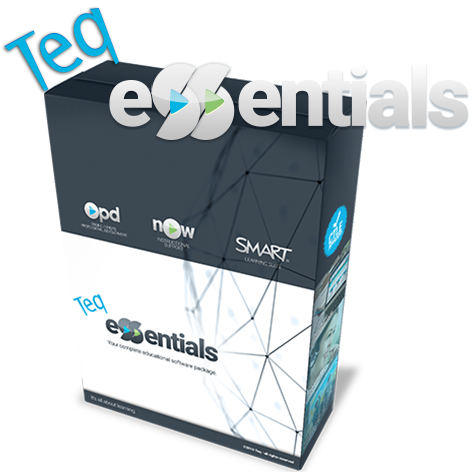
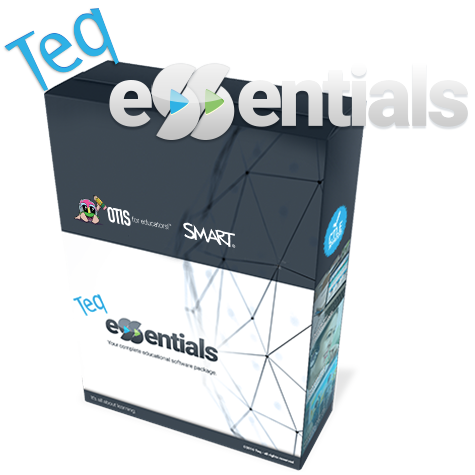
Essentials Product Box update
brand with OTIS for educator's platform

diff --git a/templates-pages/product-page-accordion-top.php b/templates-pages/product-page-accordion-top.php
@@ -89,7 +89,7 @@
           <div class="container padding-top padding-bottom">
             <div class="col-md-6 nopadding">
               <h1 class="white display-1">Combine.</h1>
-              <h3 class="white">Combine the learning power of <?php the_title( '<strong>', '</strong>' ); ?> with <a class="white bold" href="<?php echo site_url(); ?>/pd-platforms/online-pd"/>Online</a> and <a class="white bold" href="<?php echo site_url(); ?>/pd-platforms/onsite-pd">Onsite PD</a> and an unparalleled level of Instructional Support for your Essential Learning Package.</h3><a class="white" href="http://onlinepd.teq.com">onlinepd.teq.com</a>
+              <h3 class="white">Combine the learning power of <a class="white bold" href="<?php echo site_url(); ?>/pd-platforms/otis"/>OTIS for educators</a> and <a class="white bold" href="<?php echo site_url(); ?>/pd-platforms/onsite-pd">Onsite PD</a> with Teq Essentials, an exclusive package with unparalleled learning content and instructional support.</h3><a class="white" href="https://otis.teq.com/">otis.teq.com</a>              
               <center><a href="<?php echo site_url(); ?>/pd-platforms/teq-essentials/"><button class="light">Find out more</button></a></center>
             </div>
             <div class="col-md-6 nopadding flex-md-middle">

diff --git a/templates-pages/product-page-slider-top.php b/templates-pages/product-page-slider-top.php
@@ -109,7 +109,7 @@
           <div class="container padding-top padding-bottom">
             <div class="col-md-6 nopadding">
               <h1 class="white display-1">Combine.</h1>
-              <h3 class="white">Combine the learning power of <?php the_title( '<strong>', '</strong>' ); ?> with <a class="white bold" href="<?php echo site_url(); ?>/pd-platforms/online-pd"/>Online</a> and <a class="white bold" href="<?php echo site_url(); ?>/pd-platforms/onsite-pd">Onsite PD</a> and an unparalleled level of Instructional Support for your Essential Learning Package.</h3><a class="white" href="http://onlinepd.teq.com">onlinepd.teq.com</a>
+              <h3 class="white">Combine the learning power of <a class="white bold" href="<?php echo site_url(); ?>/pd-platforms/otis"/>OTIS for educators</a> and <a class="white bold" href="<?php echo site_url(); ?>/pd-platforms/onsite-pd">Onsite PD</a> with Teq Essentials, an exclusive package with unparalleled learning content and instructional support.</h3><a class="white" href="https://otis.teq.com/">otis.teq.com</a>
               <center><a href="<?php echo site_url(); ?>/pd-platforms/teq-essentials/"><button class="light">Find out more</button></a></center>
             </div>
             <div class="col-md-6 nopadding flex-md-middle">

diff --git a/templates-pages/product-page-form-open-new.php b/templates-pages/product-page-form-open-new.php
@@ -62,7 +62,7 @@
           <div class="container padding-top padding-bottom">
             <div class="col-md-6 nopadding">
               <h1 class="white display-1">Combine.</h1>
-              <h3 class="white">Combine the learning power of <?php the_title( '<strong>', '</strong>' ); ?> with <a class="white bold" href="<?php echo site_url(); ?>/pd-platforms/online-pd"/>Online</a> and <a class="white bold" href="<?php echo site_url(); ?>/pd-platforms/onsite-pd">Onsite PD</a> and an unparalleled level of Instructional Support for your Essential Learning Package.</h3><a class="white" href="http://onlinepd.teq.com">onlinepd.teq.com</a>
+              <h3 class="white">Combine the learning power of <a class="white bold" href="<?php echo site_url(); ?>/pd-platforms/otis"/>OTIS for educators</a> and <a class="white bold" href="<?php echo site_url(); ?>/pd-platforms/onsite-pd">Onsite PD</a> with Teq Essentials, an exclusive package with unparalleled learning content and instructional support.</h3><a class="white" href="https://otis.teq.com/">otis.teq.com</a>
               <center><a href="<?php echo site_url(); ?>/pd-platforms/teq-essentials/"><button class="light">Find out more</button></a></center>
             </div>
             <div class="col-md-6 nopadding flex-md-middle">

diff --git a/templates-pages/product-page-more-info-no-demo-form-open.php b/templates-pages/product-page-more-info-no-demo-form-open.php
@@ -62,7 +62,7 @@
           <div class="container padding-top padding-bottom">
             <div class="col-md-6 nopadding">
               <h1 class="white display-1">Combine.</h1>
-              <h3 class="white">Combine the learning power of <?php the_title( '<strong>', '</strong>' ); ?> with <a class="white bold" href="<?php echo site_url(); ?>/pd-platforms/online-pd"/>Online</a> and <a class="white bold" href="<?php echo site_url(); ?>/pd-platforms/onsite-pd">Onsite PD</a> and an unparalleled level of Instructional Support for your Essential Learning Package.</h3><a class="white" href="http://onlinepd.teq.com">onlinepd.teq.com</a>
+              <h3 class="white">Combine the learning power of <a class="white bold" href="<?php echo site_url(); ?>/pd-platforms/otis"/>OTIS for educators</a> and <a class="white bold" href="<?php echo site_url(); ?>/pd-platforms/onsite-pd">Onsite PD</a> with Teq Essentials, an exclusive package with unparalleled learning content and instructional support.</h3><a class="white" href="https://otis.teq.com/">otis.teq.com</a>
               <center><a href="<?php echo site_url(); ?>/pd-platforms/teq-essentials/"><button class="light">Find out more</button></a></center>
             </div>
             <div class="col-md-6 nopadding flex-md-middle">

diff --git a/templates-pages/product-page-more-info-no-demo.php b/templates-pages/product-page-more-info-no-demo.php
@@ -62,7 +62,7 @@
           <div class="container padding-top padding-bottom">
             <div class="col-md-6 nopadding">
               <h1 class="white display-1">Combine.</h1>
-              <h3 class="white">Combine the learning power of <?php the_title( '<strong>', '</strong>' ); ?> with <a class="white bold" href="<?php echo site_url(); ?>/pd-platforms/online-pd"/>Online</a> and <a class="white bold" href="<?php echo site_url(); ?>/pd-platforms/onsite-pd">Onsite PD</a> and an unparalleled level of Instructional Support for your Essential Learning Package.</h3><a class="white" href="http://onlinepd.teq.com">onlinepd.teq.com</a>
+              <h3 class="white">Combine the learning power of <a class="white bold" href="<?php echo site_url(); ?>/pd-platforms/otis"/>OTIS for educators</a> and <a class="white bold" href="<?php echo site_url(); ?>/pd-platforms/onsite-pd">Onsite PD</a> with Teq Essentials, an exclusive package with unparalleled learning content and instructional support.</h3><a class="white" href="https://otis.teq.com/">otis.teq.com</a>
               <center><a href="<?php echo site_url(); ?>/pd-platforms/teq-essentials/"><button class="light">Find out more</button></a></center>
             </div>
             <div class="col-md-6 nopadding flex-md-middle">

diff --git a/templates-pages/product-page-vid-bg-form-open.php b/templates-pages/product-page-vid-bg-form-open.php
@@ -65,7 +65,7 @@
           <div class="container padding-top padding-bottom">
             <div class="col-md-6 nopadding">
               <h1 class="white display-1">Combine.</h1>
-              <h3 class="white">Combine the learning power of <?php the_title( '<strong>', '</strong>' ); ?> with <a class="white bold" href="<?php echo site_url(); ?>/pd-platforms/online-pd"/>Online</a> and <a class="white bold" href="<?php echo site_url(); ?>/pd-platforms/onsite-pd">Onsite PD</a> and an unparalleled level of Instructional Support for your Essential Learning Package.</h3><a class="white" href="http://onlinepd.teq.com">onlinepd.teq.com</a>
+              <h3 class="white">Combine the learning power of <a class="white bold" href="<?php echo site_url(); ?>/pd-platforms/otis"/>OTIS for educators</a> and <a class="white bold" href="<?php echo site_url(); ?>/pd-platforms/onsite-pd">Onsite PD</a> with Teq Essentials, an exclusive package with unparalleled learning content and instructional support.</h3><a class="white" href="https://otis.teq.com/">otis.teq.com</a>
               <center><a href="<?php echo site_url(); ?>/pd-platforms/teq-essentials/"><button class="light">Find out more</button></a></center>
             </div>
             <div class="col-md-6 nopadding flex-md-middle">

diff --git a/templates-pages/product-page-video-header-bg.php b/templates-pages/product-page-video-header-bg.php
@@ -68,7 +68,7 @@
           <div class="container padding-top padding-bottom">
             <div class="col-md-6 nopadding">
               <h1 class="white display-1">Combine.</h1>
-              <h3 class="white">Combine the learning power of <?php the_title( '<strong>', '</strong>' ); ?> with <a class="white bold" href="<?php echo site_url(); ?>/pd-platforms/online-pd"/>Online</a> and <a class="white bold" href="<?php echo site_url(); ?>/pd-platforms/onsite-pd">Onsite PD</a> and an unparalleled level of Instructional Support for your Essential Learning Package.</h3><a class="white" href="http://onlinepd.teq.com">onlinepd.teq.com</a>
+              <h3 class="white">Combine the learning power of <a class="white bold" href="<?php echo site_url(); ?>/pd-platforms/otis"/>OTIS for educators</a> and <a class="white bold" href="<?php echo site_url(); ?>/pd-platforms/onsite-pd">Onsite PD</a> with Teq Essentials, an exclusive package with unparalleled learning content and instructional support.</h3><a class="white" href="https://otis.teq.com/">otis.teq.com</a>
               <center><a href="<?php echo site_url(); ?>/pd-platforms/teq-essentials/"><button class="light">Find out more</button></a></center>
             </div>
             <div class="col-md-6 nopadding flex-md-middle">

diff --git a/templates-pages/product-page-with-two-header-links.php b/templates-pages/product-page-with-two-header-links.php
@@ -62,7 +62,7 @@
           <div class="container padding-top padding-bottom">
             <div class="col-md-6 nopadding">
               <h1 class="white display-1">Combine.</h1>
-              <h3 class="white">Combine the learning power of <?php the_title( '<strong>', '</strong>' ); ?> with <a class="white bold" href="<?php echo site_url(); ?>/pd-platforms/online-pd"/>Online</a> and <a class="white bold" href="<?php echo site_url(); ?>/pd-platforms/onsite-pd">Onsite PD</a> and an unparalleled level of Instructional Support for your Essential Learning Package.</h3><a class="white" href="http://onlinepd.teq.com">onlinepd.teq.com</a>
+              <h3 class="white">Combine the learning power of <a class="white bold" href="<?php echo site_url(); ?>/pd-platforms/otis"/>OTIS for educators</a> and <a class="white bold" href="<?php echo site_url(); ?>/pd-platforms/onsite-pd">Onsite PD</a> with Teq Essentials, an exclusive package with unparalleled learning content and instructional support.</h3><a class="white" href="https://otis.teq.com/">otis.teq.com</a>
               <center><a href="<?php echo site_url(); ?>/pd-platforms/teq-essentials/"><button class="light">Find out more</button></a></center>
             </div>
             <div class="col-md-6 nopadding flex-md-middle">

diff --git a/templates-pages/product-page.php b/templates-pages/product-page.php
@@ -62,7 +62,7 @@
           <div class="container padding-top padding-bottom">
             <div class="col-md-6 nopadding">
               <h1 class="white display-1">Combine.</h1>
-              <h3 class="white">Combine the learning power of <?php the_title( '<strong>', '</strong>' ); ?> with <a class="white bold" href="<?php echo site_url(); ?>/pd-platforms/online-pd"/>Online</a> and <a class="white bold" href="<?php echo site_url(); ?>/pd-platforms/onsite-pd">Onsite PD</a> and an unparalleled level of Instructional Support for your Essential Learning Package.</h3><a class="white" href="http://onlinepd.teq.com">onlinepd.teq.com</a>
+              <h3 class="white">Combine the learning power of <a class="white bold" href="<?php echo site_url(); ?>/pd-platforms/otis"/>OTIS for educators</a> and <a class="white bold" href="<?php echo site_url(); ?>/pd-platforms/onsite-pd">Onsite PD</a> with Teq Essentials, an exclusive package with unparalleled learning content and instructional support.</h3><a class="white" href="https://otis.teq.com/">otis.teq.com</a>
               <center><a href="<?php echo site_url(); ?>/pd-platforms/teq-essentials/"><button class="light">Find out more</button></a></center>
             </div>
             <div class="col-md-6 nopadding flex-md-middle">

diff --git a/single-cdw-g-products.php b/single-cdw-g-products.php
@@ -27,13 +27,14 @@ get_template_part('lib/teq-g-header');
         <h1><strong><?php the_title();?></strong><span class="blink"></span></h1>
         <h3><?php echo get_post_meta($postid, 'headerTitle', true); ?></h3>
       </div>
+      <?php if(metadata_exists('post', $post->ID,'headerCaption')) { ?>
       <div class="post-content hide-print">
         <h5>
           Watch our <strong>product familiarization</strong> video below.<br />
           <?php echo get_post_meta($postid, 'headerCaption', true); ?>
         </h5>
       </div>
-      <?php if(metadata_exists('post', $post->ID,'gradeBand')) { ?>
+    <?php } if(metadata_exists('post', $post->ID,'gradeBand')) { ?>
       <div class="print-content">
         <h6><strong>Grade Band Compatibility</strong> - Black indicates the grade-band in which the product is focused on, while grey indicates other grade-bands that it can be applied in. Curriculum Versatility - Products with a higher Curriculum Versatility value can be used in multiple subject/curriculum areas or grade levels compared to products that have a lower number. Products that have a higher level for <strong>ease-of-use</strong> will be relatively simple for teachers to implement into their instruction.</h6>
       </div>

diff --git a/templates-pages/product-pd-page.php b/templates-pages/product-pd-page.php
@@ -63,7 +63,7 @@
           <div class="container padding-top padding-bottom">
             <div class="col-md-6 nopadding">
               <h1 class="white display-1">Combine.</h1>
-              <h3 class="white">Combine the learning power of <a class="white bold" href="<?php echo site_url(); ?>/pd-platforms/online-pd"/>Online</a> and <a class="white bold" href="<?php echo site_url(); ?>/pd-platforms/onsite-pd">Onsite PD</a> with an unparalleled level of Instructional Support for your Essential Learning Package.</h3><a class="white" href="http://onlinepd.teq.com">onlinepd.teq.com</a>
+              <h3 class="white">Combine the learning power of <a class="white bold" href="<?php echo site_url(); ?>/pd-platforms/otis"/>OTIS for educators</a> and <a class="white bold" href="<?php echo site_url(); ?>/pd-platforms/onsite-pd">Onsite PD</a> with Teq Essentials, an exclusive package with unparalleled learning content and instructional support.</h3><a class="white" href="https://otis.teq.com/">otis.teq.com</a>
               <center><a href="<?php echo site_url(); ?>/pd-platforms/teq-essentials/"><button class="light">Find out more</button></a></center>
             </div>
             <div class="col-md-6 nopadding flex-md-middle">
